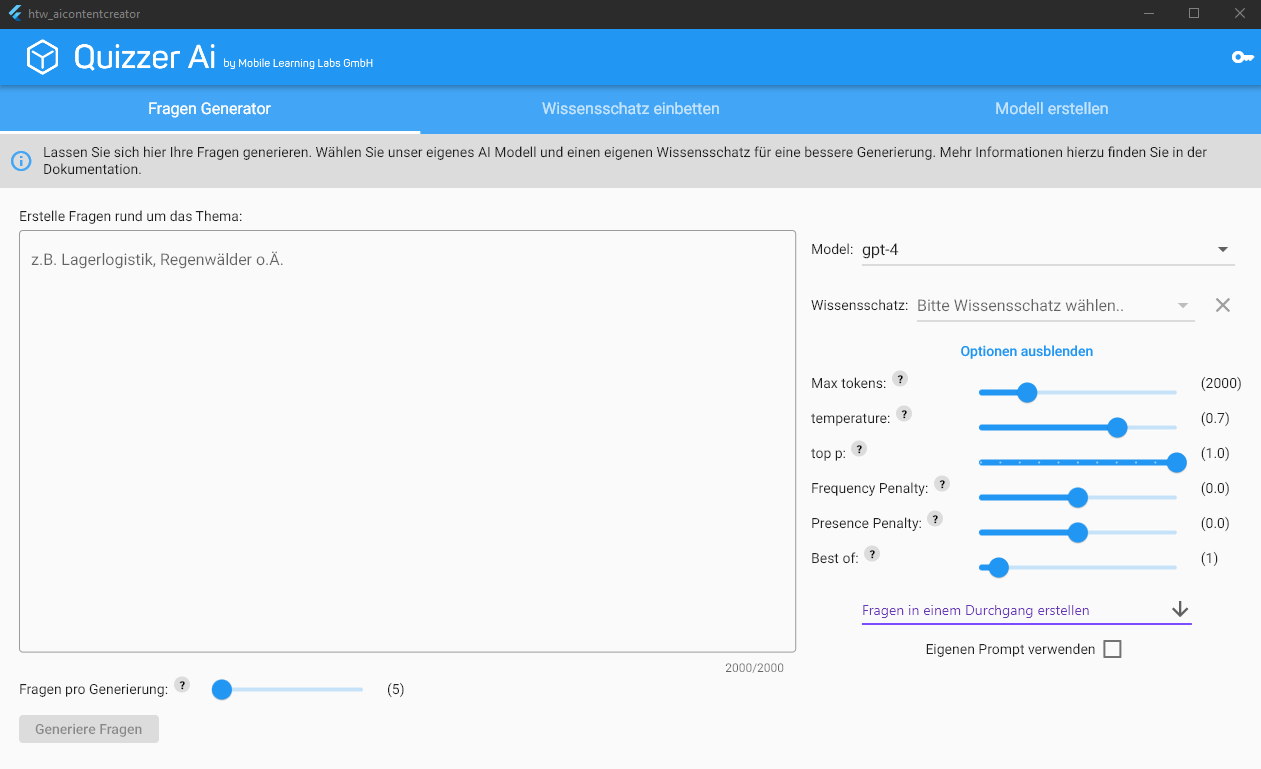
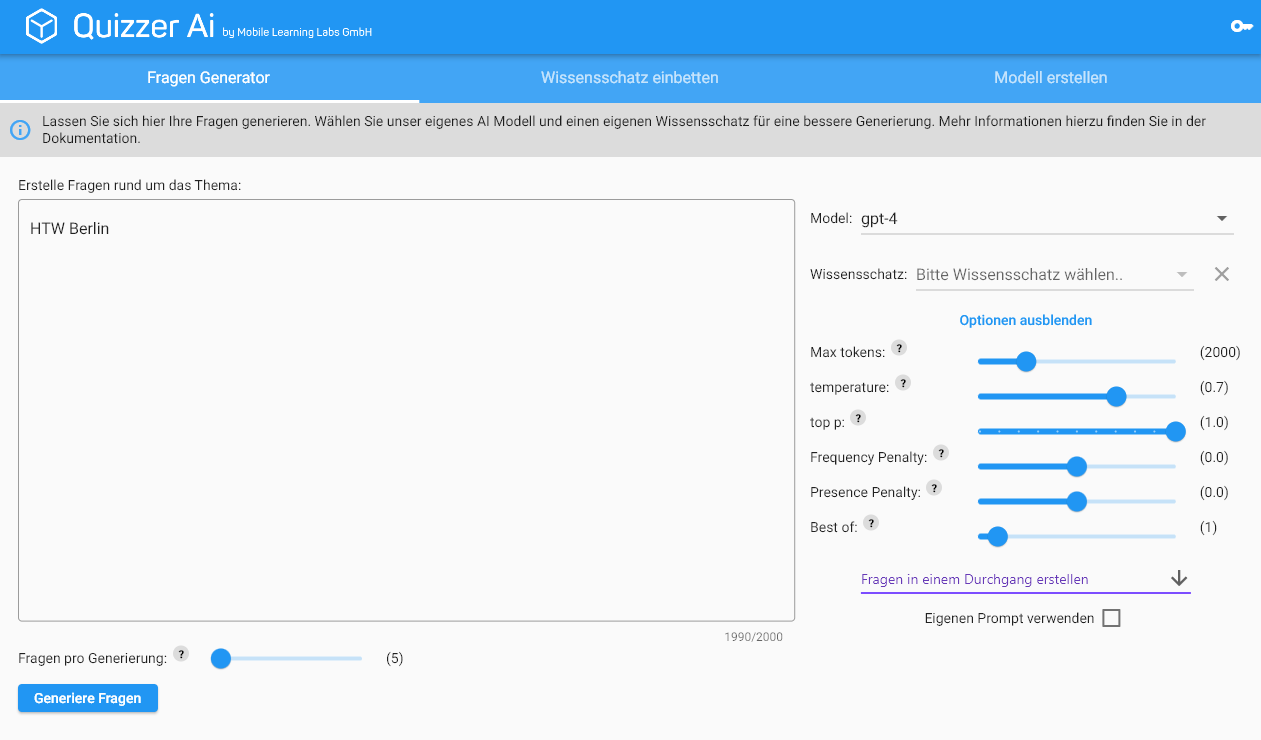
update feature page

diff --git a/content/ss23/master/m5-quizzer-ai/features.md b/content/ss23/master/m5-quizzer-ai/features.md
@@ -5,7 +5,21 @@ weight = 1
 
 {{<section title="❓ Generate Quizzes">}}
 
-TODO
+With Quzzier AI, generating quiz questions using AI models is effortless. Simply input a topic or term and submit. You have the option to use various models, including **GPT-4**, **GPT-3.5-Turbo**, or even your own trained models / knowledge bases. Additionally, you can adjust the answers using optional parameters, such as creativity, logic, and size.
+
+{{<image src="features_home.png" alt="Generate Quizzes" caption="Generate Quizzes">}}
+
+After the questions have been successfully generated by the AI and processed by Quizzer Ai, they can be reviewed in more detail. In this **preview window** the user can perform **various actions** with the generated questions.
+
+* In case the answer to the question is wrong or multiple answers are correct, this can easily be changed here.
+* If the answers do not match the question, they can be generated again.
+* In addition, more detailed explanations for the quiz questions can be generated.
+* Furthermore, unnecessary questions can be deleted but also added by manually.
+
+If the users are happy with the generated quiz questions, they can be exported and imported into the target application like [Quizzer 2.0](https://ml-labs.com/).
+
+{{<image src="features_quiz_preview.png" alt="Generate Quizzes" caption="Preview Quizzes">}}
+
 
 {{</section>}}
 
@@ -26,6 +40,8 @@ Users can then specify which slice of embedded knowledge to use or use all of th
 
 Users are given the opportunity to train their own model, tailored to their specific queries and responses. Fine-tuning, in our case, is all about predicting the user's input and generating suitable responses. To accomplish this, a dataset is needed—the larger, the better. This dataset is saved in a JSONL file, comprised of a prompt and a completion. Afterwards, it is possible to train one of the standard language models provided by OpenAI.
 
+
+
 To streamline this process, Quizzer provides a management section that oversees all your personalized models and more. Additionally, an Installation Wizard is available to facilitate the training of a new model. This **Wizward** is divided into four steps.
 
 * **Basis Model**
@@ -44,5 +60,7 @@ In the following step, you may optionally adjust hyperparameters to modify the t
 * **Verify Settings**
 
 Finally, all selected settings will be summarized before initiating the training process. It is essential to review these settings, as costs will be incurred from this point onwards.
+
+{{<image src="features_finetuning.png" alt="Generate Quizzes" caption="Example of Fine Tuning Wizard">}}
 
 {{</section>}}

diff --git a/content/ss23/master/m5-quizzer-ai/process.md b/content/ss23/master/m5-quizzer-ai/process.md
@@ -3,13 +3,13 @@ title = "Process"
 weight = 1
 +++
 
-{{<section title="Process">}}
-{{<image src="process_trello.png" alt="Process Trello" caption="Trello board">}}
+{{<section title="📋 Process">}}
 In our project, we managed the process using a **Trello** board, a helpful tool for organizing tasks and responsibilities. The Kanban board allowed us to efficiently distribute tasks among the team members and track the progress of each assignment. This method facilitated **clear communication** and coordination throughout the project, ensuring that everyone knew their roles and deadlines. We also held meeting sessions every Monday via **Microsoft Teams**. This helped us stay on track, kept us in discussion, and we were able to plan ahead for the current week. Regular communications and text chat happened through **Discord**.
+{{<image src="process_trello.png" alt="Process Trello" caption="Trello board">}}
 
 {{</section>}} 
 
-{{<section title="📋 Project start">}}
+{{<section title="📅 Project start">}}
 
 As the **OpenAI API** Tools and AI, in general, were relatively new to us, we dedicated the first two weeks to really understanding and researching what  and fine-tunings do and how to improve our prompts. We decided on specialists for each big task, with Dustin being our **Flutter** expert and principal developer, Felix being responsible for **fine-tuning**, training our model and creating an easy-to-use fine-tuning assistant, and Michael being responsible for **embeddings** with a semantic search functionality, figuring out ways to import and clean up documents for embeddings, and doing general project management to keep the project on track. Electing specialists and having only 3 members in the team was a huge advantage for us. This way **everybody knew their craf**t, could teach the others about their findings, and work in a really focused manner. This also made project management easier, as dividing tasks was trivial, and therefore we had clean communication and more opportunities for precise timekeeping.
 
@@ -27,7 +27,7 @@ Our result is an easy-to-use Question Generator, with advanced features like the
 
 {{</section>}} 
 
-{{<section title="🟰 Project Results">}}
+{{<section title="✅ Project Results">}}
 
 We realized the main requirements of the project tender and contributed our own features and ideas in the process. At the same time we were always in communication with Mobile Learning Labs to create a **common vision**. Etensive **documentation** was provided, which can be used by the customers of Mobile Learning Labs.
 
